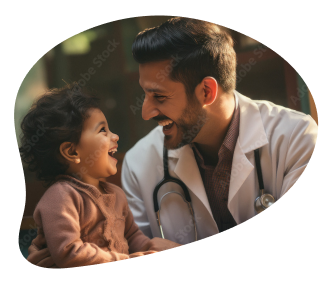
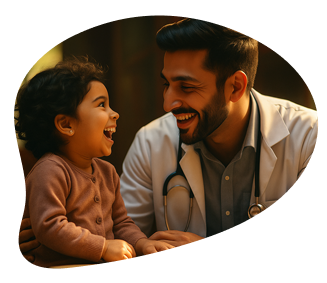
Stock Images V2

diff --git a/src/app/service/vaccinations/banner/page.tsx b/src/app/service/vaccinations/banner/page.tsx
@@ -125,8 +125,8 @@ export default function Banner() {
                   className="z-0 w-[330px] md:w-[330px]  h-auto"
                 />
                 <Image
-                  width={150}
-                  height={500}
+                  width={327}
+                  height={283}
                   src={vaccinationBannerImg}
                   alt="Layer 2"
                   className="absolute bottom-[10px] md:bottom-[-30px] lg:bottom-[10px] w-[340px] md:w-[360px] h-auto"

diff --git a/src/app/doctors/banner/page.tsx b/src/app/doctors/banner/page.tsx
@@ -91,8 +91,8 @@ export default function Banner() {
             className="z-0 w-[330px] md:w-[330px]  h-auto"
           />
           <Image
-            width={150}
-            height={500}
+            width={390}
+            height={412}
             src={serviceVectorimg1}
             alt="Layer 2"
             className="absolute bottom-[-40px] md:bottom-[-30px] lg:bottom-[-30px] w-[385px] md:w-[400px] h-auto"

diff --git a/src/app/service/general-pediatrics-consultation/banner/page.tsx b/src/app/service/general-pediatrics-consultation/banner/page.tsx
@@ -95,8 +95,8 @@ export default function Banner() {
             className="z-0 w-[330px] md:w-[330px]  h-auto"
           />
           <Image
-            width={150}
-            height={500}
+            width={390}
+            height={411}
             src={serviceVectorimg1}
             alt="Layer 2"
             className="absolute bottom-[-40px] md:bottom-[-30px] lg:bottom-[-30px] w-[385px] md:w-[400px] h-auto"
